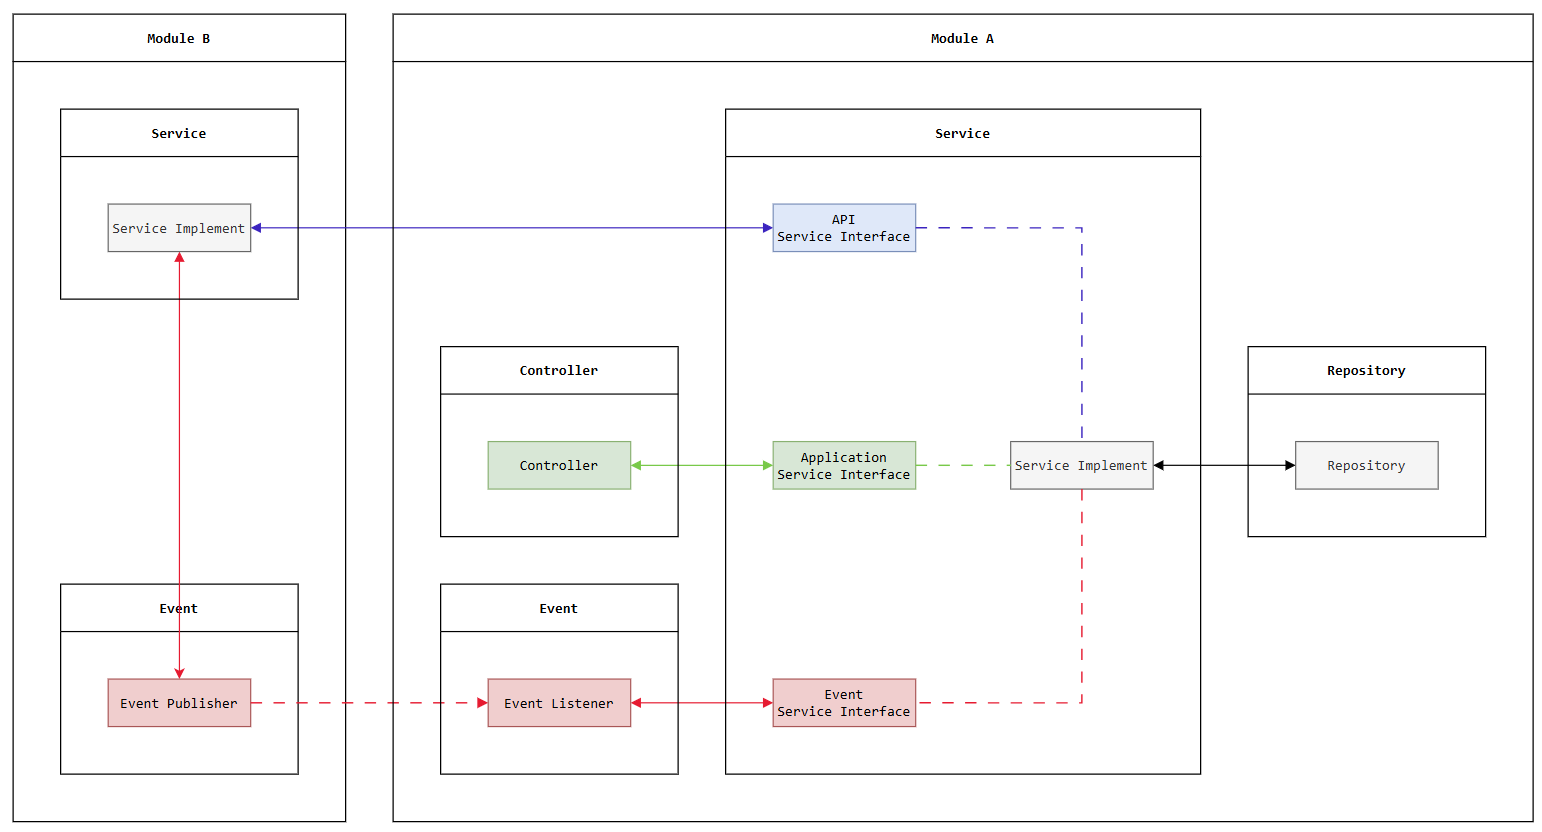
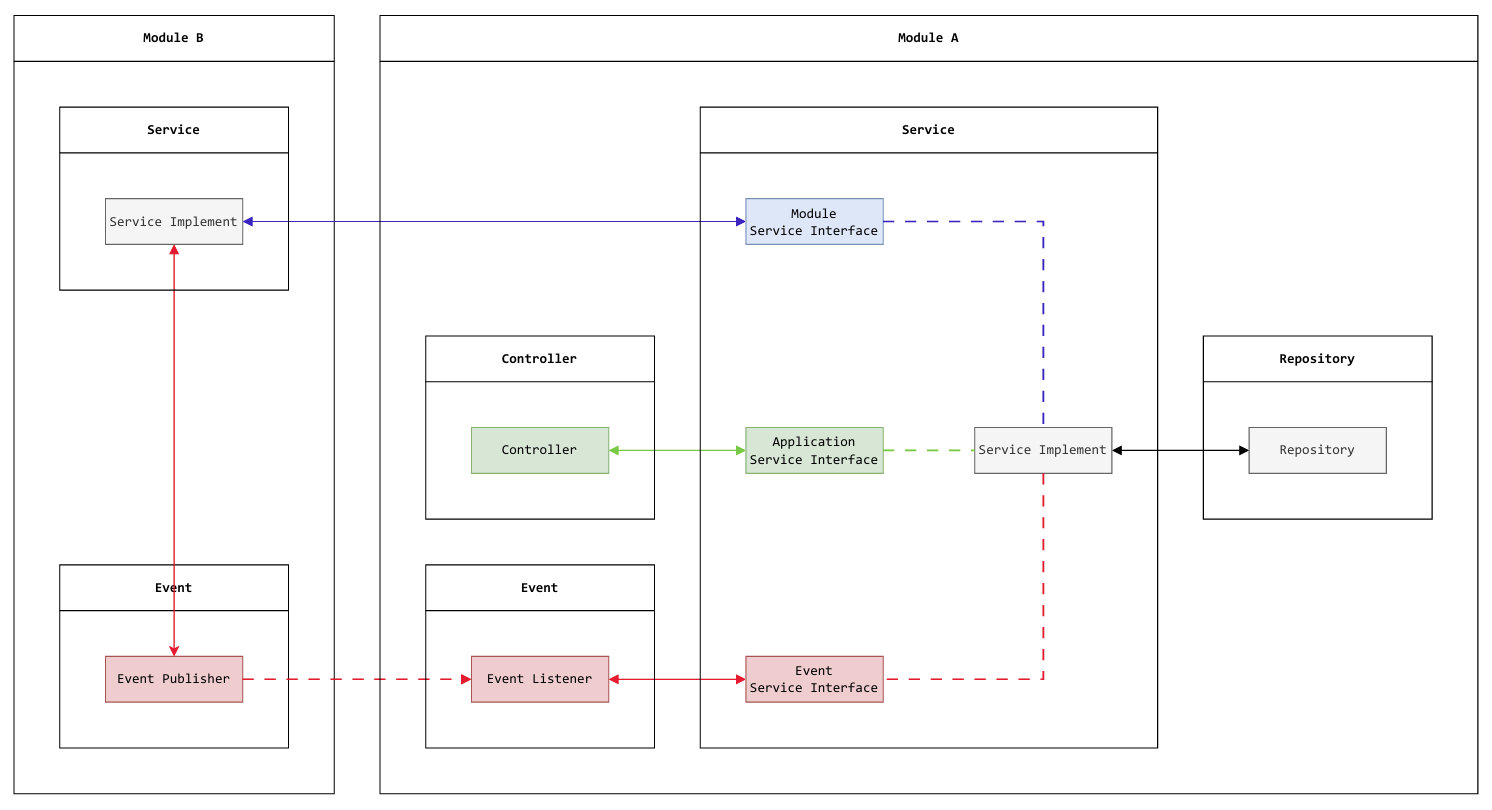
refactor/account: add project structure to README & change module internal package name

diff --git a/src/main/java/com/yozakuraMinato/monoteBe/user/service/implement/UserServiceImplement.java b/src/main/java/com/yozakuraMinato/monoteBe/user/service/implement/UserServiceImplement.java
@@ -1,10 +1,10 @@
 package com.yozakuraMinato.monoteBe.user.service.implement;
 
 import com.yozakuraMinato.monoteBe.common.exception.ResourceConflictException;
-import com.yozakuraMinato.monoteBe.security.service.JwtApiService;
-import com.yozakuraMinato.monoteBe.user.controller.applicationPayload.SignInRequest;
-import com.yozakuraMinato.monoteBe.user.controller.applicationPayload.SignInResponse;
-import com.yozakuraMinato.monoteBe.user.controller.applicationPayload.SignUpRequest;
+import com.yozakuraMinato.monoteBe.security.service.JwtModuleService;
+import com.yozakuraMinato.monoteBe.user.controller.payload.SignInRequest;
+import com.yozakuraMinato.monoteBe.user.controller.payload.SignInResponse;
+import com.yozakuraMinato.monoteBe.user.controller.payload.SignUpRequest;
 import com.yozakuraMinato.monoteBe.user.repository.UserRepository;
 import com.yozakuraMinato.monoteBe.user.domain.User;
 import com.yozakuraMinato.monoteBe.user.domain.UserDetailsImplement;
@@ -30,7 +30,7 @@ public class UserServiceImplement implements UserApplicationService {
     private final UserRepository userRepository;
     private final UserMapper userMapper;
 
-    private final JwtApiService jwtApiService;
+    private final JwtModuleService jwtModuleService;
 
     @Override
     public void signUp(SignUpRequest signUpRequest) {
@@ -53,7 +53,7 @@ public class UserServiceImplement implements UserApplicationService {
         UserDetailsImplement userDetailsImplement = (UserDetailsImplement) authentication.getPrincipal();
         String accessToken = null;
         if (userDetailsImplement != null) {
-            accessToken = jwtApiService.generateToken(userDetailsImplement.getUsername());
+            accessToken = jwtModuleService.generateToken(userDetailsImplement.getUsername());
         }
 
         return new SignInResponse(accessToken, null);

diff --git a/src/main/java/com/yozakuraMinato/monoteBe/account/controller/AccountController.java b/src/main/java/com/yozakuraMinato/monoteBe/account/controller/AccountController.java
@@ -1,8 +1,8 @@
 package com.yozakuraMinato.monoteBe.account.controller;
 
-import com.yozakuraMinato.monoteBe.account.controller.applicationPayload.AccountMasterRequest;
-import com.yozakuraMinato.monoteBe.account.controller.applicationPayload.AccountMasterResponse;
-import com.yozakuraMinato.monoteBe.account.controller.applicationPayload.AccountUpdateRequest;
+import com.yozakuraMinato.monoteBe.account.controller.payload.AccountMasterRequest;
+import com.yozakuraMinato.monoteBe.account.controller.payload.AccountMasterResponse;
+import com.yozakuraMinato.monoteBe.account.controller.payload.AccountUpdateRequest;
 import com.yozakuraMinato.monoteBe.account.service.AccountApplicationService;
 import com.yozakuraMinato.monoteBe.common.annotation.CurrentUserId;
 import com.yozakuraMinato.monoteBe.common.payload.ApplicationResponse;

diff --git a/src/main/java/com/yozakuraMinato/monoteBe/account/service/AccountApplicationService.java b/src/main/java/com/yozakuraMinato/monoteBe/account/service/AccountApplicationService.java
@@ -1,8 +1,8 @@
 package com.yozakuraMinato.monoteBe.account.service;
 
-import com.yozakuraMinato.monoteBe.account.controller.applicationPayload.AccountMasterRequest;
-import com.yozakuraMinato.monoteBe.account.controller.applicationPayload.AccountMasterResponse;
-import com.yozakuraMinato.monoteBe.account.controller.applicationPayload.AccountUpdateRequest;
+import com.yozakuraMinato.monoteBe.account.controller.payload.AccountMasterRequest;
+import com.yozakuraMinato.monoteBe.account.controller.payload.AccountMasterResponse;
+import com.yozakuraMinato.monoteBe.account.controller.payload.AccountUpdateRequest;
 import com.yozakuraMinato.monoteBe.common.payload.PaginationRequest;
 import org.springframework.hateoas.EntityModel;
 import org.springframework.hateoas.PagedModel;

diff --git a/src/main/java/com/yozakuraMinato/monoteBe/account/service/implement/AccountServiceImplement.java b/src/main/java/com/yozakuraMinato/monoteBe/account/service/implement/AccountServiceImplement.java
@@ -3,9 +3,9 @@ package com.yozakuraMinato.monoteBe.account.service.implement;
 import com.yozakuraMinato.monoteBe.account.shared.AccountMessage;
 import com.yozakuraMinato.monoteBe.account.domain.Account;
 import com.yozakuraMinato.monoteBe.account.domain.type.AccountStatus;
-import com.yozakuraMinato.monoteBe.account.controller.applicationPayload.AccountMasterRequest;
-import com.yozakuraMinato.monoteBe.account.controller.applicationPayload.AccountMasterResponse;
-import com.yozakuraMinato.monoteBe.account.controller.applicationPayload.AccountUpdateRequest;
+import com.yozakuraMinato.monoteBe.account.controller.payload.AccountMasterRequest;
+import com.yozakuraMinato.monoteBe.account.controller.payload.AccountMasterResponse;
+import com.yozakuraMinato.monoteBe.account.controller.payload.AccountUpdateRequest;
 import com.yozakuraMinato.monoteBe.account.repository.AccountRepository;
 import com.yozakuraMinato.monoteBe.account.repository.projection.AccountProjection;
 import com.yozakuraMinato.monoteBe.account.service.AccountApplicationService;

diff --git a/src/main/java/com/yozakuraMinato/monoteBe/account/shared/AccountMapper.java b/src/main/java/com/yozakuraMinato/monoteBe/account/shared/AccountMapper.java
@@ -1,8 +1,8 @@
 package com.yozakuraMinato.monoteBe.account.shared;
 
-import com.yozakuraMinato.monoteBe.account.controller.applicationPayload.AccountMasterRequest;
-import com.yozakuraMinato.monoteBe.account.controller.applicationPayload.AccountMasterResponse;
-import com.yozakuraMinato.monoteBe.account.controller.applicationPayload.AccountUpdateRequest;
+import com.yozakuraMinato.monoteBe.account.controller.payload.AccountMasterRequest;
+import com.yozakuraMinato.monoteBe.account.controller.payload.AccountMasterResponse;
+import com.yozakuraMinato.monoteBe.account.controller.payload.AccountUpdateRequest;
 import com.yozakuraMinato.monoteBe.account.domain.Account;
 import com.yozakuraMinato.monoteBe.account.repository.projection.AccountProjection;
 import org.mapstruct.Mapper;

diff --git a/src/main/java/com/yozakuraMinato/monoteBe/common/annotation/resolver/CurrentUserIdResolver.java b/src/main/java/com/yozakuraMinato/monoteBe/common/annotation/resolver/CurrentUserIdResolver.java
@@ -1,7 +1,7 @@
 package com.yozakuraMinato.monoteBe.common.annotation.resolver;
 
 import com.yozakuraMinato.monoteBe.common.annotation.CurrentUserId;
-import com.yozakuraMinato.monoteBe.user.service.UserContextApiService;
+import com.yozakuraMinato.monoteBe.user.service.UserContextModuleService;
 import lombok.RequiredArgsConstructor;
 import org.jspecify.annotations.NonNull;
 import org.springframework.core.MethodParameter;
@@ -18,7 +18,7 @@ import java.util.UUID;
 @RequiredArgsConstructor
 public class CurrentUserIdResolver implements HandlerMethodArgumentResolver {
 
-    private final UserContextApiService userContextApiService;
+    private final UserContextModuleService userContextModuleService;
 
     @Override
     public boolean supportsParameter(MethodParameter methodParameter) {
@@ -31,7 +31,7 @@ public class CurrentUserIdResolver implements HandlerMethodArgumentResolver {
             @NonNull MethodParameter methodParameter, ModelAndViewContainer modelAndViewContainer,
             @NonNull NativeWebRequest nativeWebRequest, WebDataBinderFactory webDataBinderFactory
     ) {
-        return userContextApiService
+        return userContextModuleService
                 .getUserId()
                 .orElseThrow(() -> new BadCredentialsException(null));
     }

diff --git a/src/main/java/com/yozakuraMinato/monoteBe/persistence/configuration/AuditConfiguration.java b/src/main/java/com/yozakuraMinato/monoteBe/persistence/configuration/AuditConfiguration.java
@@ -1,6 +1,6 @@
 package com.yozakuraMinato.monoteBe.persistence.configuration;
 
-import com.yozakuraMinato.monoteBe.user.service.UserContextApiService;
+import com.yozakuraMinato.monoteBe.user.service.UserContextModuleService;
 import lombok.RequiredArgsConstructor;
 import org.springframework.context.annotation.Bean;
 import org.springframework.context.annotation.Configuration;
@@ -17,11 +17,11 @@ public class AuditConfiguration {
 
     private final UUID SYSTEM_ID = new UUID(0L, 0L);
 
-    private final UserContextApiService userContextApiService;
+    private final UserContextModuleService userContextModuleService;
 
     @Bean
     public AuditorAware<UUID> auditorProvider() {
-        return () -> userContextApiService
+        return () -> userContextModuleService
                 .getUserId()
                 .or(() -> Optional.of(SYSTEM_ID));
     }

diff --git a/src/main/java/com/yozakuraMinato/monoteBe/user/controller/UserController.java b/src/main/java/com/yozakuraMinato/monoteBe/user/controller/UserController.java
@@ -1,9 +1,9 @@
 package com.yozakuraMinato.monoteBe.user.controller;
 
 import com.yozakuraMinato.monoteBe.common.payload.ApplicationResponse;
-import com.yozakuraMinato.monoteBe.user.controller.applicationPayload.SignInRequest;
-import com.yozakuraMinato.monoteBe.user.controller.applicationPayload.SignInResponse;
-import com.yozakuraMinato.monoteBe.user.controller.applicationPayload.SignUpRequest;
+import com.yozakuraMinato.monoteBe.user.controller.payload.SignInRequest;
+import com.yozakuraMinato.monoteBe.user.controller.payload.SignInResponse;
+import com.yozakuraMinato.monoteBe.user.controller.payload.SignUpRequest;
 import com.yozakuraMinato.monoteBe.user.service.UserApplicationService;
 import jakarta.validation.Valid;
 import lombok.RequiredArgsConstructor;

diff --git a/src/main/java/com/yozakuraMinato/monoteBe/user/service/UserApplicationService.java b/src/main/java/com/yozakuraMinato/monoteBe/user/service/UserApplicationService.java
@@ -1,8 +1,8 @@
 package com.yozakuraMinato.monoteBe.user.service;
 
-import com.yozakuraMinato.monoteBe.user.controller.applicationPayload.SignInRequest;
-import com.yozakuraMinato.monoteBe.user.controller.applicationPayload.SignInResponse;
-import com.yozakuraMinato.monoteBe.user.controller.applicationPayload.SignUpRequest;
+import com.yozakuraMinato.monoteBe.user.controller.payload.SignInRequest;
+import com.yozakuraMinato.monoteBe.user.controller.payload.SignInResponse;
+import com.yozakuraMinato.monoteBe.user.controller.payload.SignUpRequest;
 
 public interface UserApplicationService {
 

diff --git a/src/main/java/com/yozakuraMinato/monoteBe/security/configuration/JwtFilter.java b/src/main/java/com/yozakuraMinato/monoteBe/security/configuration/JwtFilter.java
@@ -1,7 +1,7 @@
 package com.yozakuraMinato.monoteBe.security.configuration;
 
 import com.yozakuraMinato.monoteBe.security.service.JwtApplicationService;
-import com.yozakuraMinato.monoteBe.user.service.UserDetailsApiService;
+import com.yozakuraMinato.monoteBe.user.service.UserDetailsModuleService;
 import jakarta.servlet.FilterChain;
 import jakarta.servlet.ServletException;
 import jakarta.servlet.http.HttpServletRequest;
@@ -49,7 +49,7 @@ public class JwtFilter extends OncePerRequestFilter {
 
         if (username != null && SecurityContextHolder.getContext().getAuthentication() == null) {
             UserDetails userDetails = applicationContext
-                    .getBean(UserDetailsApiService.class)
+                    .getBean(UserDetailsModuleService.class)
                     .loadUserByUsername(username);
 
             if (jwtApplicationService.validateToken(token, userDetails)) {

diff --git a/src/main/java/com/yozakuraMinato/monoteBe/security/service/implement/JwtServiceImplement.java b/src/main/java/com/yozakuraMinato/monoteBe/security/service/implement/JwtServiceImplement.java
@@ -1,7 +1,7 @@
 package com.yozakuraMinato.monoteBe.security.service.implement;
 
 import com.yozakuraMinato.monoteBe.security.service.JwtApplicationService;
-import com.yozakuraMinato.monoteBe.security.service.JwtApiService;
+import com.yozakuraMinato.monoteBe.security.service.JwtModuleService;
 import io.jsonwebtoken.Claims;
 import io.jsonwebtoken.Jwts;
 import io.jsonwebtoken.io.Decoders;
@@ -18,7 +18,7 @@ import java.util.*;
 import java.util.function.Function;
 
 @Service
-public class JwtServiceImplement implements JwtApiService, JwtApplicationService {
+public class JwtServiceImplement implements JwtModuleService, JwtApplicationService {
 
     @Value("${security.jwt.key-algorithm}")
     private String keyAlgorithm;

diff --git a/src/main/java/com/yozakuraMinato/monoteBe/user/service/implement/UserContextServiceImplement.java b/src/main/java/com/yozakuraMinato/monoteBe/user/service/implement/UserContextServiceImplement.java
@@ -1,6 +1,6 @@
 package com.yozakuraMinato.monoteBe.user.service.implement;
 
-import com.yozakuraMinato.monoteBe.user.service.UserContextApiService;
+import com.yozakuraMinato.monoteBe.user.service.UserContextModuleService;
 import com.yozakuraMinato.monoteBe.user.domain.UserDetailsImplement;
 import org.springframework.security.core.Authentication;
 import org.springframework.security.core.context.SecurityContextHolder;
@@ -10,7 +10,7 @@ import java.util.Optional;
 import java.util.UUID;
 
 @Service
-public class UserContextServiceImplement implements UserContextApiService {
+public class UserContextServiceImplement implements UserContextModuleService {
 
     @Override
     public Optional<UUID> getUserId() {